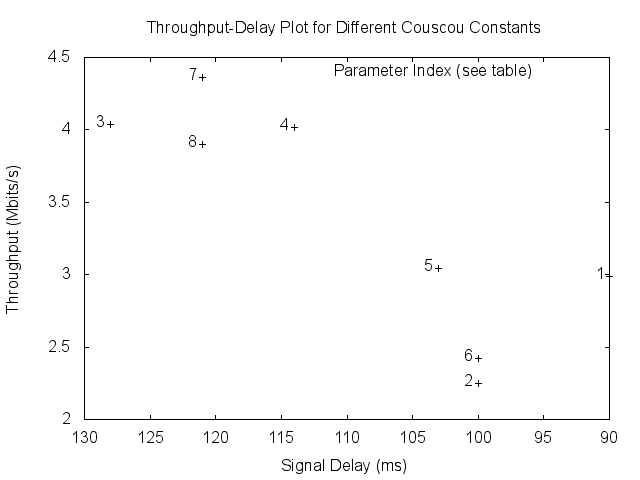
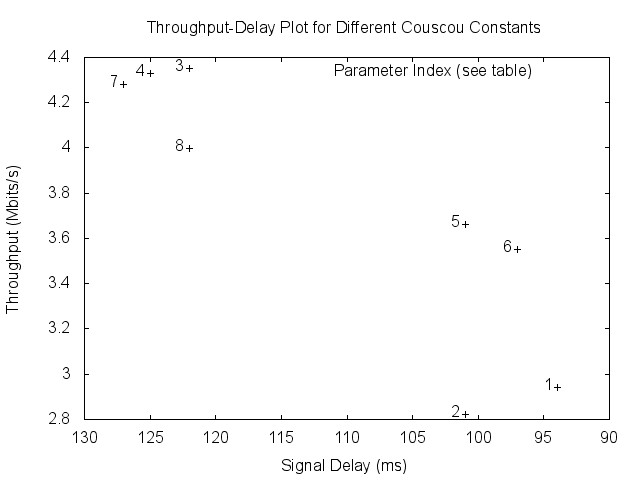
Use updated test results

diff --git a/datagrump/controller.cc b/datagrump/controller.cc
@@ -17,8 +17,8 @@ double read_env( const char *name, double def )
   return result;
 }
 
-const double window_scaling = read_env("WINDOW_SCALING", 1.75);
-const double timeout = read_env("TIMEOUT", 50);
+const double window_scaling = read_env("WINDOW_SCALING", 1.5);
+const double timeout = read_env("TIMEOUT", 75);
 
 /* Default constructor */
 Controller::Controller( const bool debug )
